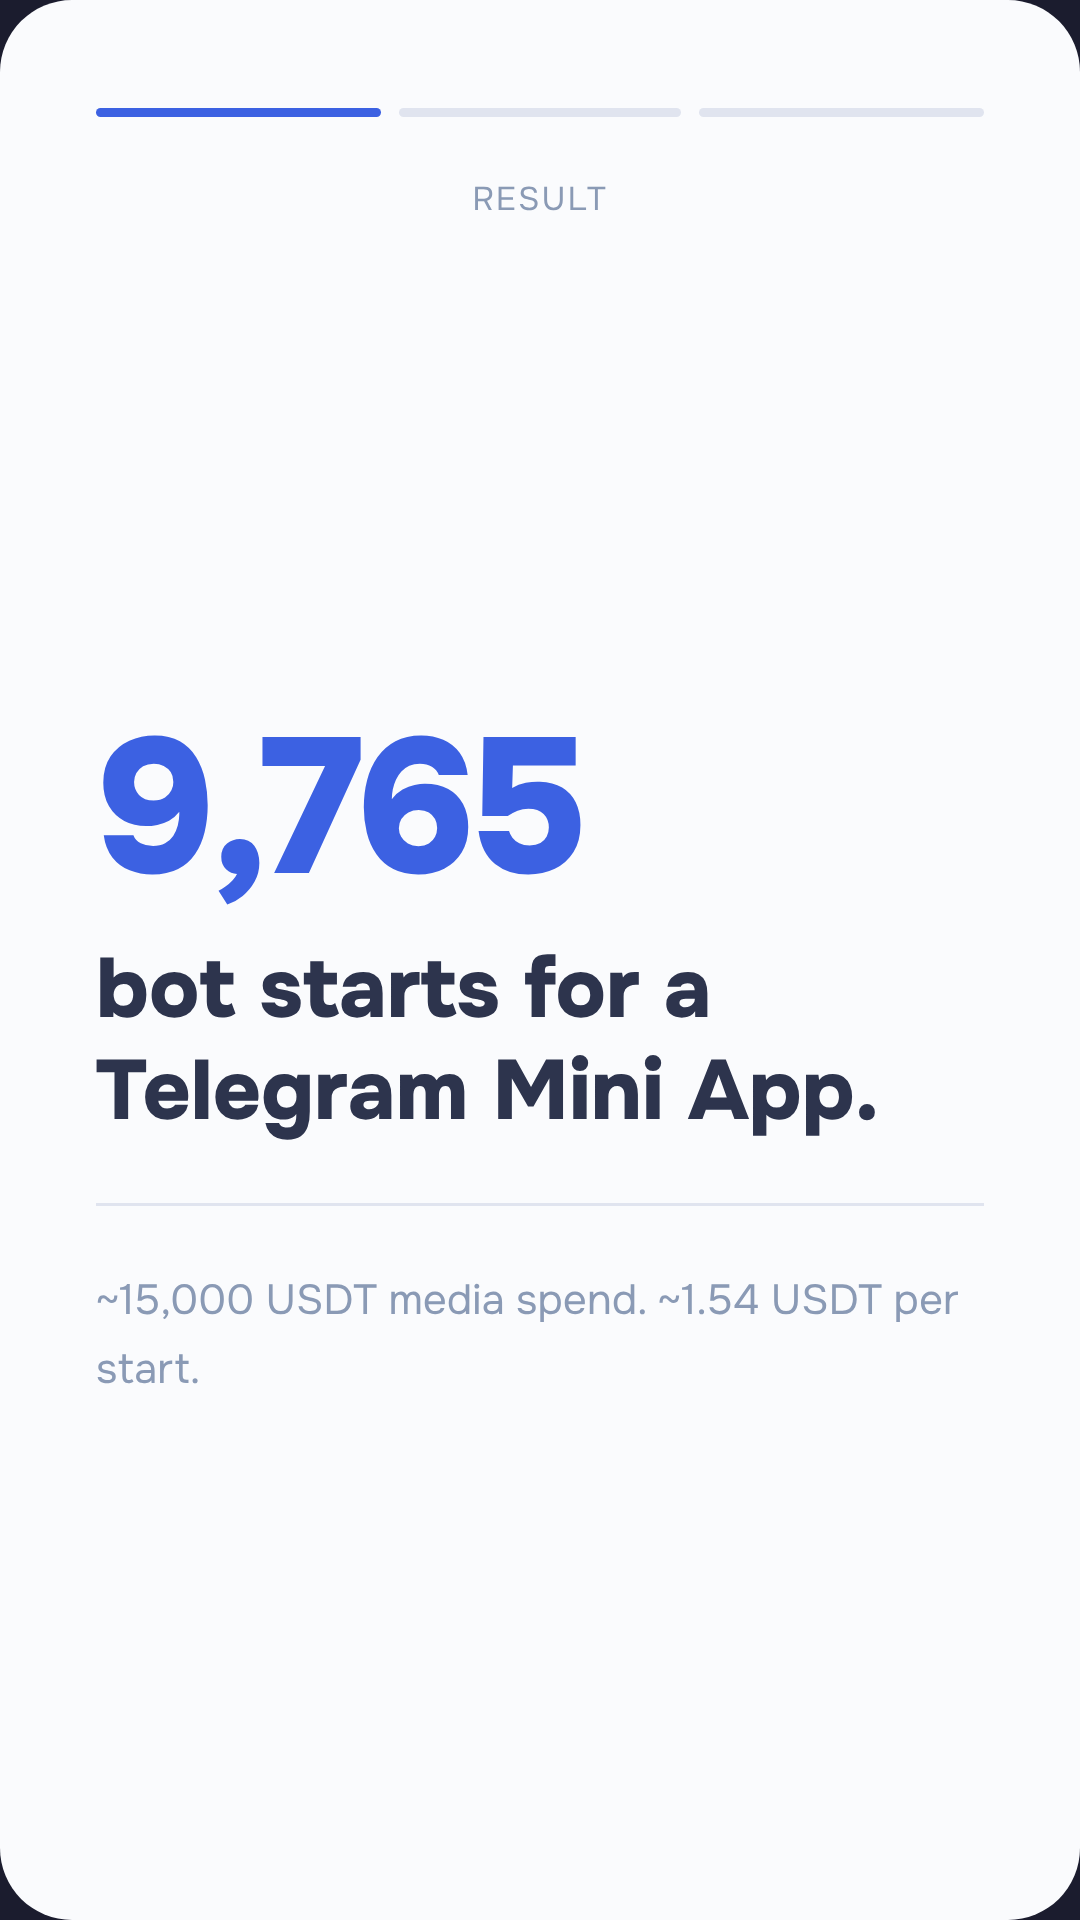
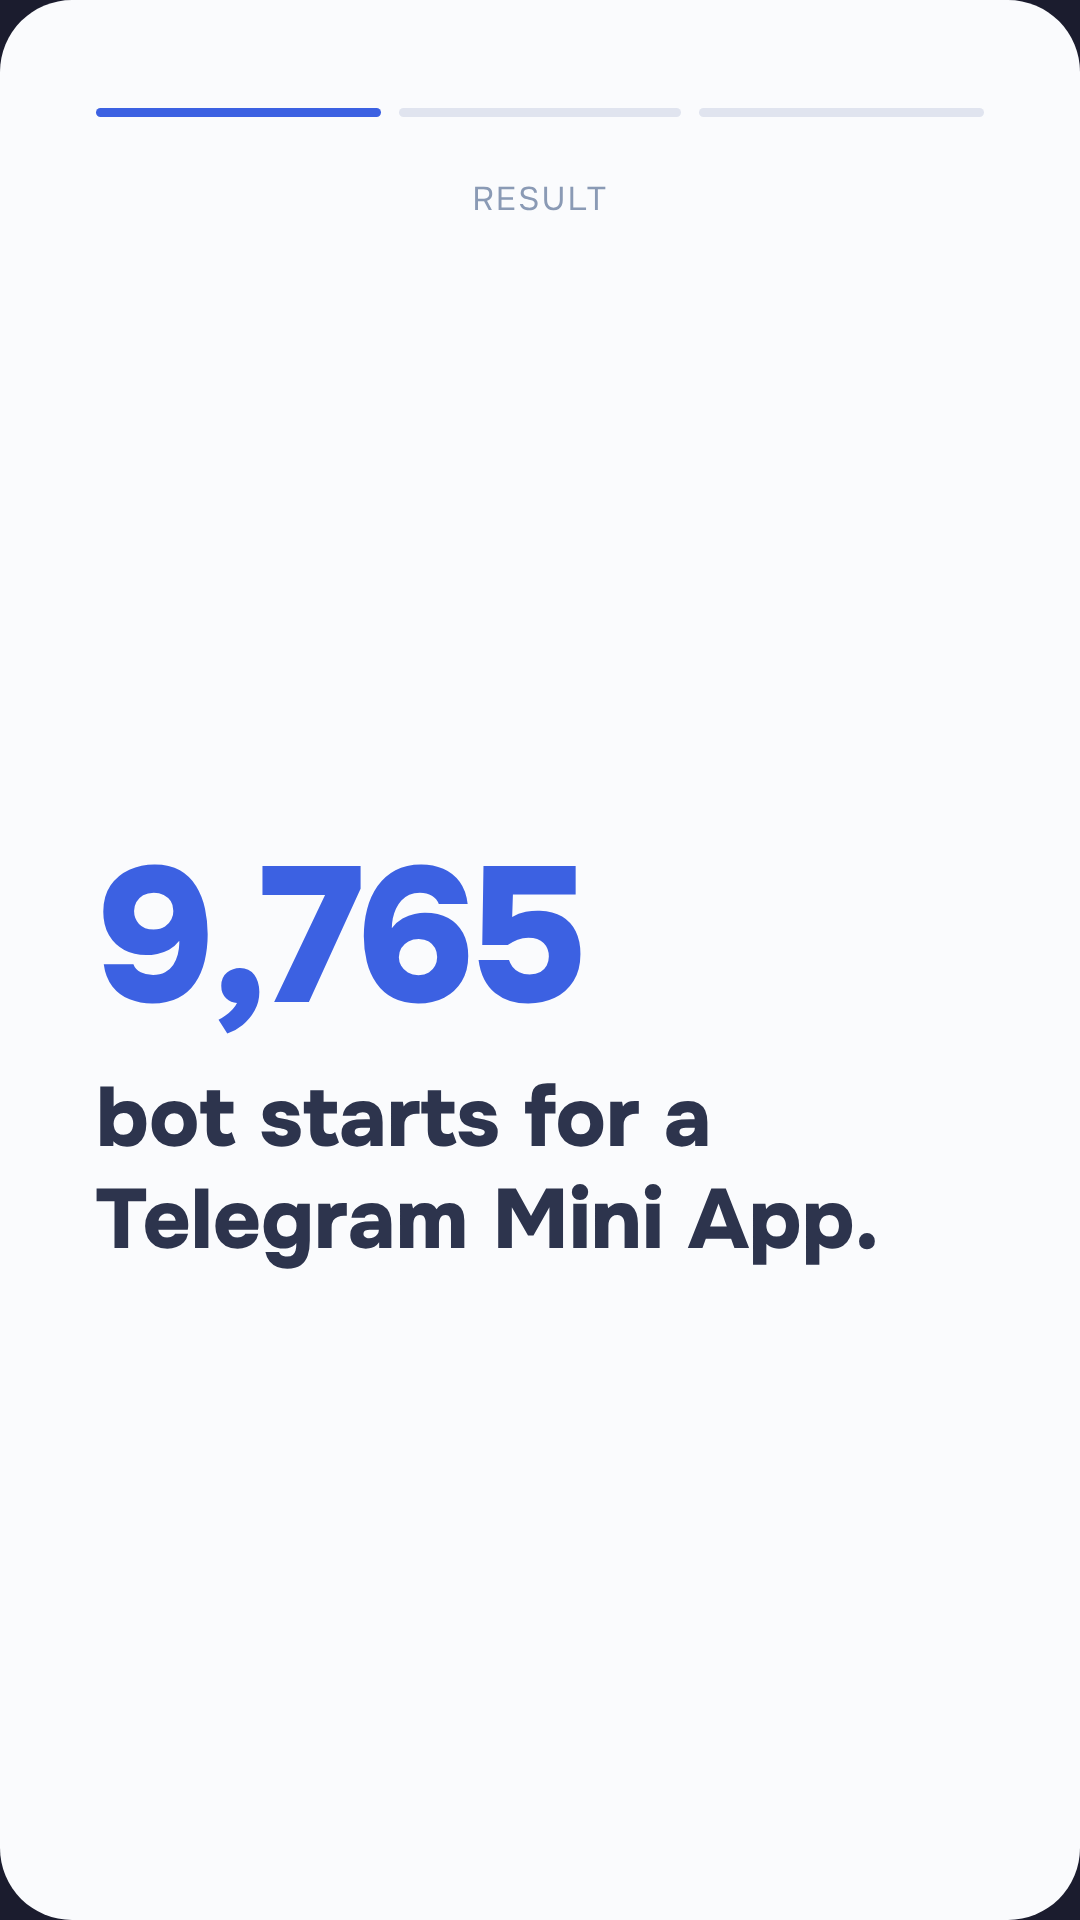
Format 02 slide 1: remove spend/cost caption
Claude-Session: https://claude.ai/code/session_019mQXRn9tmYz6Dk7Bw87Nyy

Changed region(s): [[0.0917, 0.375, 0.825, 0.7188], [0.825, 0.6562, 0.8861, 0.6875]]

diff --git a/stories/uds-wheel-of-fortune-stories-2.html b/stories/uds-wheel-of-fortune-stories-2.html
@@ -90,8 +90,6 @@ body {
   <div style="flex:1;display:flex;flex-direction:column;justify-content:center;">
     <div class="stat">9,765</div>
     <div style="font-size:28px;font-weight:800;color:#2D344D;line-height:1.2;margin-top:12px;">bot starts for a Telegram Mini App.</div>
-    <div class="divider"></div>
-    <div style="font-size:14px;color:#8A9AB5;line-height:1.6;">~15,000 USDT media spend. ~1.54 USDT per start.</div>
   </div>
 </div><div class="slide">
   <div class="prog"><div class="ps on"></div><div class="ps on"></div><div class="ps"></div></div>
